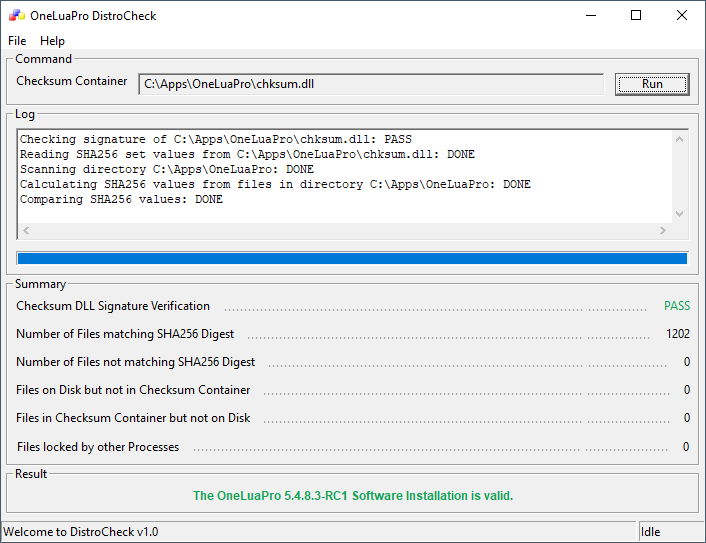
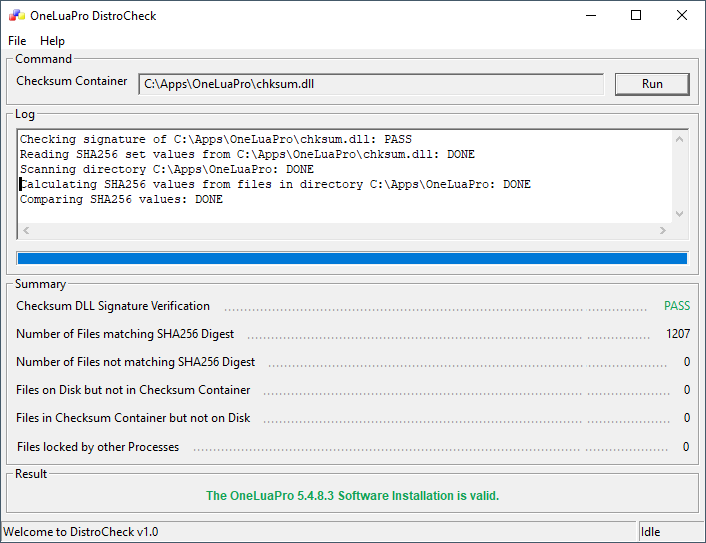
Refactoring
- Polished documentation
- Introcuced a 3rd state between PASS and FAIL, in case the installation
  is OK, but 3rd party files outside the OneLuaPro realm have been added

Changed region(s): [[0.2805, 0.884, 0.7167, 0.9429], [0.0, 0.3241, 0.0312, 0.3536]]

diff --git a/README.html b/README.html
@@ -709,6 +709,6 @@ header, .context-menu, .megamenu-content, footer{
 </span></span></pre><pre class=" CodeMirror-line " role="presentation"><span role="presentation" style="padding-right: 0.1px;"><span class="cm-comment">-- Extract numeric components from version string</span></span></pre><pre class=" CodeMirror-line " role="presentation"><span role="presentation" style="padding-right: 0.1px;"><span class="cm-keyword">local</span> <span class="cm-keyword">function</span> <span class="cm-variable">getVersionTable</span>(<span class="cm-variable">v_str</span>)</span></pre><pre class=" CodeMirror-line " role="presentation"><span role="presentation" style="padding-right: 0.1px;"> &nbsp; &nbsp;<span class="cm-keyword">local</span> <span class="cm-variable">t</span> = {}</span></pre><pre class=" CodeMirror-line " role="presentation"><span role="presentation" style="padding-right: 0.1px;"> &nbsp; &nbsp;<span class="cm-keyword">for</span> <span class="cm-variable">num</span> <span class="cm-keyword">in</span> <span class="cm-variable">v_str</span>:<span class="cm-variable">gmatch</span>(<span class="cm-string">"%d+"</span>) <span class="cm-keyword">do</span></span></pre><pre class=" CodeMirror-line " role="presentation"><span role="presentation" style="padding-right: 0.1px;"> &nbsp; &nbsp; &nbsp; &nbsp;<span class="cm-builtin">table.insert</span>(<span class="cm-variable">t</span>, <span class="cm-builtin">tonumber</span>(<span class="cm-variable">num</span>))</span></pre><pre class=" CodeMirror-line " role="presentation"><span role="presentation" style="padding-right: 0.1px;"> &nbsp; &nbsp;<span class="cm-keyword">end</span></span></pre><pre class=" CodeMirror-line " role="presentation"><span role="presentation" style="padding-right: 0.1px;"> &nbsp; &nbsp;<span class="cm-keyword">return</span> <span class="cm-variable">t</span></span></pre><pre class=" CodeMirror-line " role="presentation"><span role="presentation" style="padding-right: 0.1px;"><span class="cm-keyword">end</span></span></pre><pre class=" CodeMirror-line " role="presentation"><span role="presentation" style="padding-right: 0.1px;"><span cm-text="" cm-zwsp="">
 </span></span></pre><pre class=" CodeMirror-line " role="presentation"><span role="presentation" style="padding-right: 0.1px;"><span class="cm-keyword">local</span> <span class="cm-variable">current</span> = <span class="cm-variable">getVersionTable</span>(<span class="cm-variable">distro._VERSION</span>)</span></pre><pre class=" CodeMirror-line " role="presentation"><span role="presentation" style="padding-right: 0.1px;"><span class="cm-keyword">local</span> <span class="cm-variable">required</span> = {<span class="cm-number">5</span>, <span class="cm-number">4</span>, <span class="cm-number">8</span>, <span class="cm-number">3</span>}</span></pre><pre class=" CodeMirror-line " role="presentation"><span role="presentation" style="padding-right: 0.1px;"><span cm-text="" cm-zwsp="">
 </span></span></pre><pre class=" CodeMirror-line " role="presentation"><span role="presentation" style="padding-right: 0.1px;"><span class="cm-keyword">local</span> <span class="cm-variable">isCompatible</span> = <span class="cm-keyword">true</span></span></pre><pre class=" CodeMirror-line " role="presentation"><span role="presentation" style="padding-right: 0.1px;"><span class="cm-keyword">for</span> <span class="cm-variable">i</span> = <span class="cm-number">1</span>, #<span class="cm-variable">required</span> <span class="cm-keyword">do</span></span></pre><pre class=" CodeMirror-line " role="presentation"><span role="presentation" style="padding-right: 0.1px;"> &nbsp; &nbsp;<span class="cm-keyword">if</span> (<span class="cm-variable">current</span>[<span class="cm-variable">i</span>] <span class="cm-keyword">or</span> <span class="cm-number">0</span>) &lt; <span class="cm-variable">required</span>[<span class="cm-variable">i</span>] <span class="cm-keyword">then</span></span></pre><pre class=" CodeMirror-line " role="presentation"><span role="presentation" style="padding-right: 0.1px;"> &nbsp; &nbsp; &nbsp; &nbsp;<span class="cm-variable">isCompatible</span> = <span class="cm-keyword">false</span></span></pre><pre class=" CodeMirror-line " role="presentation"><span role="presentation" style="padding-right: 0.1px;"> &nbsp; &nbsp; &nbsp; &nbsp;<span class="cm-keyword">break</span></span></pre><pre class=" CodeMirror-line " role="presentation"><span role="presentation" style="padding-right: 0.1px;"> &nbsp; &nbsp;<span class="cm-keyword">elseif</span> (<span class="cm-variable">current</span>[<span class="cm-variable">i</span>] <span class="cm-keyword">or</span> <span class="cm-number">0</span>) &gt; <span class="cm-variable">required</span>[<span class="cm-variable">i</span>] <span class="cm-keyword">then</span></span></pre><pre class=" CodeMirror-line " role="presentation"><span role="presentation" style="padding-right: 0.1px;"> &nbsp; &nbsp; &nbsp; &nbsp;<span class="cm-keyword">break</span> &nbsp;<span class="cm-comment">-- Current version is newer than required</span></span></pre><pre class=" CodeMirror-line " role="presentation"><span role="presentation" style="padding-right: 0.1px;"> &nbsp; &nbsp;<span class="cm-keyword">end</span></span></pre><pre class=" CodeMirror-line " role="presentation"><span role="presentation" style="padding-right: 0.1px;"><span class="cm-keyword">end</span></span></pre><pre class=" CodeMirror-line " role="presentation"><span role="presentation" style="padding-right: 0.1px;"><span cm-text="" cm-zwsp="">
-</span></span></pre><pre class=" CodeMirror-line " role="presentation"><span role="presentation" style="padding-right: 0.1px;"><span class="cm-keyword">if</span> <span class="cm-keyword">not</span> <span class="cm-variable">isCompatible</span> <span class="cm-keyword">then</span></span></pre><pre class=" CodeMirror-line " role="presentation"><span role="presentation" style="padding-right: 0.1px;"> &nbsp; &nbsp;<span class="cm-builtin">print</span>(<span class="cm-string">"\nERROR: Incompatible version. Found "</span> .. <span class="cm-variable">distro._VERSION</span> .. </span></pre><pre class=" CodeMirror-line " role="presentation"><span role="presentation" style="padding-right: 0.1px;"> &nbsp; &nbsp; &nbsp; &nbsp; &nbsp;<span class="cm-string">", but at least 5.4.8.3 is required.\n"</span>)</span></pre><pre class=" CodeMirror-line " role="presentation"><span role="presentation" style="padding-right: 0.1px;"> &nbsp; &nbsp;<span class="cm-builtin">os.exit</span>(<span class="cm-number">1</span>)</span></pre><pre class=" CodeMirror-line " role="presentation"><span role="presentation" style="padding-right: 0.1px;"><span class="cm-keyword">end</span></span></pre></div></div></div></div></div><div style="position: absolute; height: 0px; width: 1px; border-bottom: 0px solid transparent; top: 668px;"></div><div class="CodeMirror-gutters" style="display: none; height: 668px;"></div></div></div></pre><h2 id='license'><span>License</span></h2><p><span>See </span><code>https://github.com/OneLuaPro/distro/blob/master/LICENSE</code><span>.</span></p></div></div>
+</span></span></pre><pre class=" CodeMirror-line " role="presentation"><span role="presentation" style="padding-right: 0.1px;"><span class="cm-keyword">if</span> <span class="cm-keyword">not</span> <span class="cm-variable">isCompatible</span> <span class="cm-keyword">then</span></span></pre><pre class=" CodeMirror-line " role="presentation"><span role="presentation" style="padding-right: 0.1px;"> &nbsp; &nbsp;<span class="cm-builtin">print</span>(<span class="cm-string">"\nERROR: Incompatible version. Found "</span> .. <span class="cm-variable">distro._VERSION</span> .. </span></pre><pre class=" CodeMirror-line " role="presentation"><span role="presentation" style="padding-right: 0.1px;"> &nbsp; &nbsp; &nbsp; &nbsp; &nbsp;<span class="cm-string">", but at least 5.4.8.3 is required.\n"</span>)</span></pre><pre class=" CodeMirror-line " role="presentation"><span role="presentation" style="padding-right: 0.1px;"> &nbsp; &nbsp;<span class="cm-builtin">os.exit</span>(<span class="cm-number">1</span>)</span></pre><pre class=" CodeMirror-line " role="presentation"><span role="presentation" style="padding-right: 0.1px;"><span class="cm-keyword">end</span></span></pre></div></div></div></div></div><div style="position: absolute; height: 0px; width: 1px; border-bottom: 0px solid transparent; top: 668px;"></div><div class="CodeMirror-gutters" style="display: none; height: 668px;"></div></div></div></pre><h2 id='lua-module-distrocore'><span>Lua Module </span><code>distro.core</code></h2><p><span>The </span><code>distro.core</code><span> module provides low-level utilities for Windows PE file verification and resource extraction. This module was specifically made for DistroCheck and contains two functions for Windows DLL handling:</span></p><p><strong><code>.verify(path)</code></strong></p><p><span>Verifies the digital signature and integrity of a </span><strong><span>Portable Executable (PE)</span></strong><span> file (e.g., EXE, DLL, SYS). It utilizes the Windows WinVerifyTrust API to validate the trust chain, authenticity, and timestamp of the provided file.</span></p><ul><li><p><strong><span>Returns:</span></strong><span> </span><code>boolean</code><span> (true if trusted), </span><code>nil|string</code><span> (error message with Windows error code on failure).</span></p></li></ul><p><strong><code>.getHashes(dllPath [, swapKeys])</code></strong></p><p><span>Extracts a list of file digests from a specific resource (ID 101, type </span><code>RT_RCDATA</code><span>) embedded within a PE file. It parses the resource data linewise, expecting a separator format (e.g., </span><code>hash *path</code><span>).</span></p><ul><li><p><strong><span>Parameters:</span></strong></p><ul><li><p><code>dllPath</code><span>: Path to the target file.</span></p></li><li><p><code>swapKeys</code><span>: Optional boolean. If </span><code>true</code><span>, the resulting table uses file paths as keys (</span><code>table[path] = hash</code><span>). If </span><code>false</code><span> or omitted, it uses hashes as keys (</span><code>table[hash] = path</code><span>).</span></p></li></ul></li><li><p><strong><span>Returns:</span></strong><span> </span><code>table</code><span> (containing the parsed pairs) or </span><code>nil, string</code><span> on error (e.g., file not found or resource missing).</span></p></li></ul><p><span>Code example:</span></p><pre class="md-fences md-end-block ty-contain-cm modeLoaded" spellcheck="false" lang="lua"><div class="CodeMirror cm-s-inner cm-s-null-scroll CodeMirror-wrap" lang="lua"><div style="overflow: hidden; position: relative; width: 3px; height: 0px; top: 9.52344px; left: 8px;"><textarea autocorrect="off" autocapitalize="off" spellcheck="false" tabindex="0" style="position: absolute; bottom: -1em; padding: 0px; width: 1000px; height: 1em; outline: none;"></textarea></div><div class="CodeMirror-scrollbar-filler" cm-not-content="true"></div><div class="CodeMirror-gutter-filler" cm-not-content="true"></div><div class="CodeMirror-scroll" tabindex="-1"><div class="CodeMirror-sizer" style="margin-left: 0px; margin-bottom: 0px; border-right-width: 0px; padding-right: 0px; padding-bottom: 0px;"><div style="position: relative; top: 0px;"><div class="CodeMirror-lines" role="presentation"><div role="presentation" style="position: relative; outline: none;"><div class="CodeMirror-measure"><pre><span>xxxxxxxxxx</span></pre></div><div class="CodeMirror-measure"></div><div style="position: relative; z-index: 1;"></div><div class="CodeMirror-code" role="presentation"><div class="CodeMirror-activeline" style="position: relative;"><div class="CodeMirror-activeline-background CodeMirror-linebackground"></div><div class="CodeMirror-gutter-background CodeMirror-activeline-gutter" style="left: 0px; width: 0px;"></div><pre class=" CodeMirror-line " role="presentation"><span role="presentation" style="padding-right: 0.1px;"><span class="cm-keyword">local</span> <span class="cm-variable">dc</span> = <span class="cm-builtin">require</span>(<span class="cm-string">"distro.core"</span>)</span></pre></div><div class="" style="position: relative;"><pre class=" CodeMirror-line " role="presentation"><span role="presentation" style="padding-right: 0.1px;"><span class="cm-keyword">local</span> <span class="cm-variable">dllOk</span>, <span class="cm-variable">errmsg</span> = <span class="cm-variable">dc.verify</span>(<span class="cm-string">"C:\\path\\file.dll"</span>)</span></pre></div><div class="" style="position: relative;"><pre class=" CodeMirror-line " role="presentation"><span role="presentation" style="padding-right: 0.1px;"><span class="cm-keyword">local</span> <span class="cm-variable">dllDigests</span>, <span class="cm-variable">errmsg</span> = <span class="cm-variable">dc.getHashes</span>(<span class="cm-string">"C:\\path\\file.dll"</span>, <span class="cm-keyword">true</span>) <span class="cm-comment">-- table[path] = hash</span></span></pre></div></div></div></div></div></div><div style="position: absolute; height: 0px; width: 1px; border-bottom: 0px solid transparent; top: 69px;"></div><div class="CodeMirror-gutters" style="display: none; height: 69px;"></div></div></div></pre><h2 id='license'><span>License</span></h2><p><span>See </span><code>https://github.com/OneLuaPro/distro/blob/master/LICENSE</code><span>.</span></p></div></div>
 </body>
 </html>

diff --git a/README.md b/README.md
@@ -96,6 +96,33 @@ if not isCompatible then
 end
 ```
 
+## Lua Module `distro.core`
+
+The `distro.core` module provides low-level utilities for Windows PE file verification and resource extraction. This module was specifically made for DistroCheck and contains two functions for Windows DLL handling:
+
+**`.verify(path)`**
+
+Verifies the digital signature and integrity of a **Portable Executable (PE)** file (e.g., EXE, DLL, SYS). It utilizes the Windows WinVerifyTrust API to validate the trust chain, authenticity, and timestamp of the provided file.
+
+- **Returns:** `boolean` (true if trusted), `nil|string` (error message with Windows error code on failure).
+
+**`.getHashes(dllPath [, swapKeys])`**
+
+Extracts a list of file digests from a specific resource (ID 101, type `RT_RCDATA`) embedded within a PE file. It parses the resource data linewise, expecting a separator format (e.g., `hash *path`).
+
+- **Parameters:**
+  - `dllPath`: Path to the target file.
+  - `swapKeys`: Optional boolean. If `true`, the resulting table uses file paths as keys (`table[path] = hash`). If `false` or omitted, it uses hashes as keys (`table[hash] = path`).
+- **Returns:** `table` (containing the parsed pairs) or `nil, string` on error (e.g., file not found or resource missing).
+
+Code example:
+
+```lua
+local dc = require("distro.core")
+local dllOk, errmsg = dc.verify("C:\\path\\file.dll")
+local dllDigests, errmsg = dc.getHashes("C:\\path\\file.dll", true) -- table[path] = hash
+```
+
 ## License
 
 See `https://github.com/OneLuaPro/distro/blob/master/LICENSE`.
